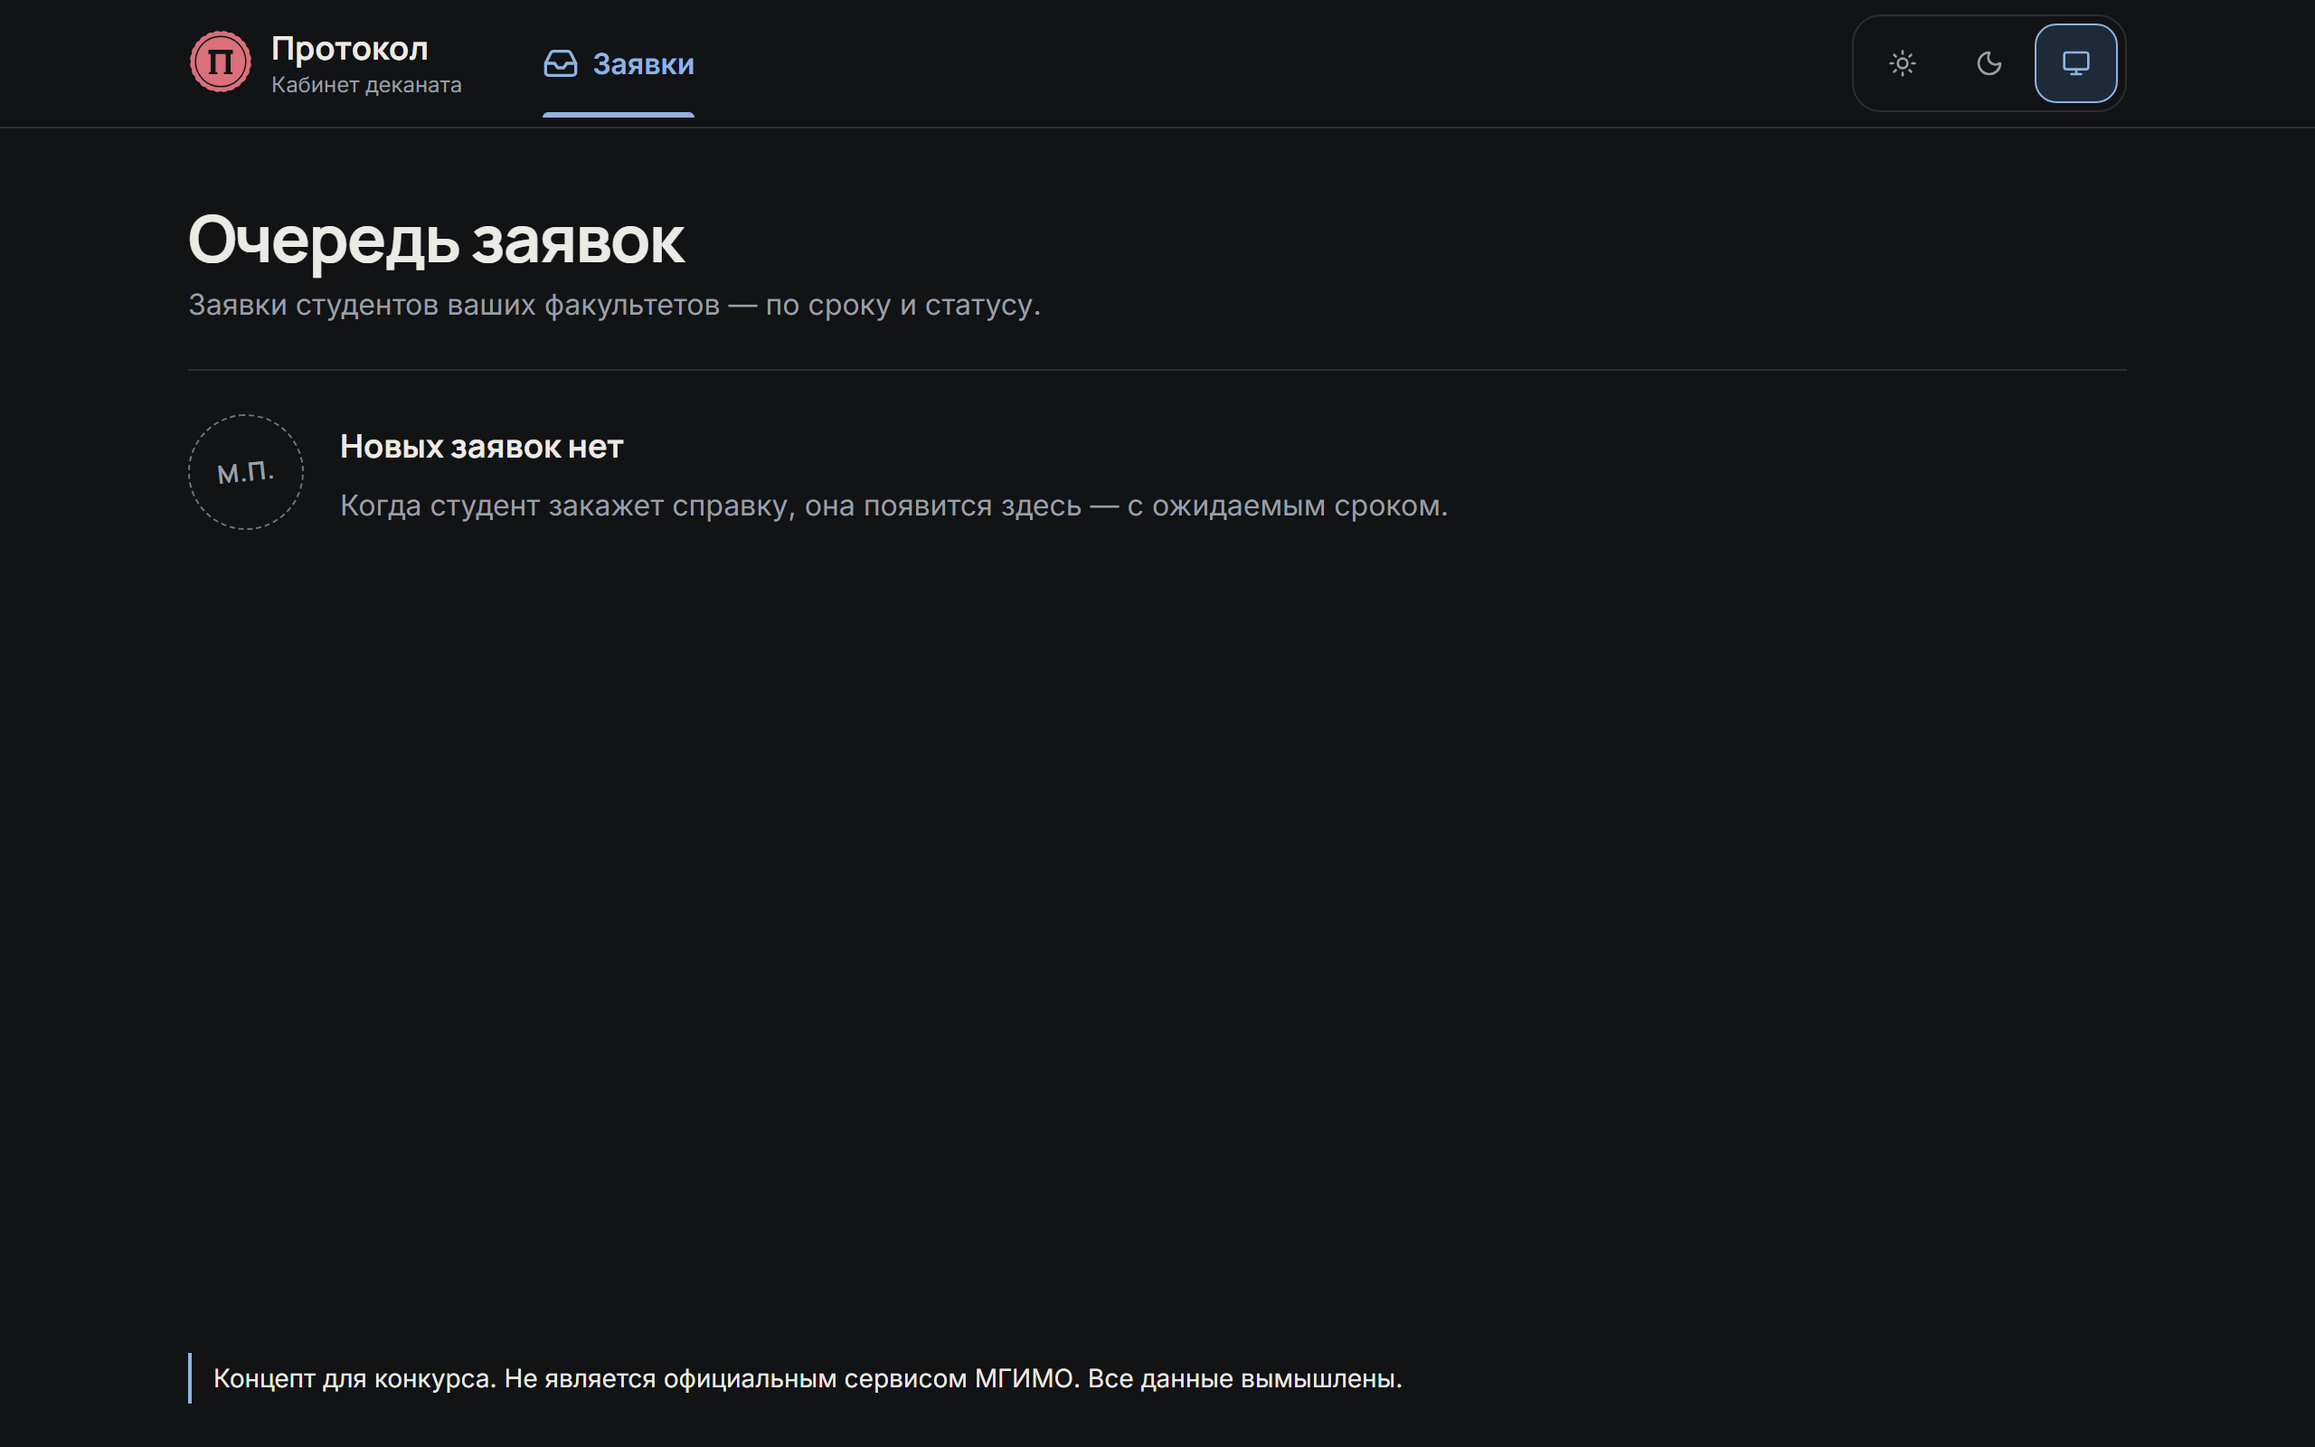
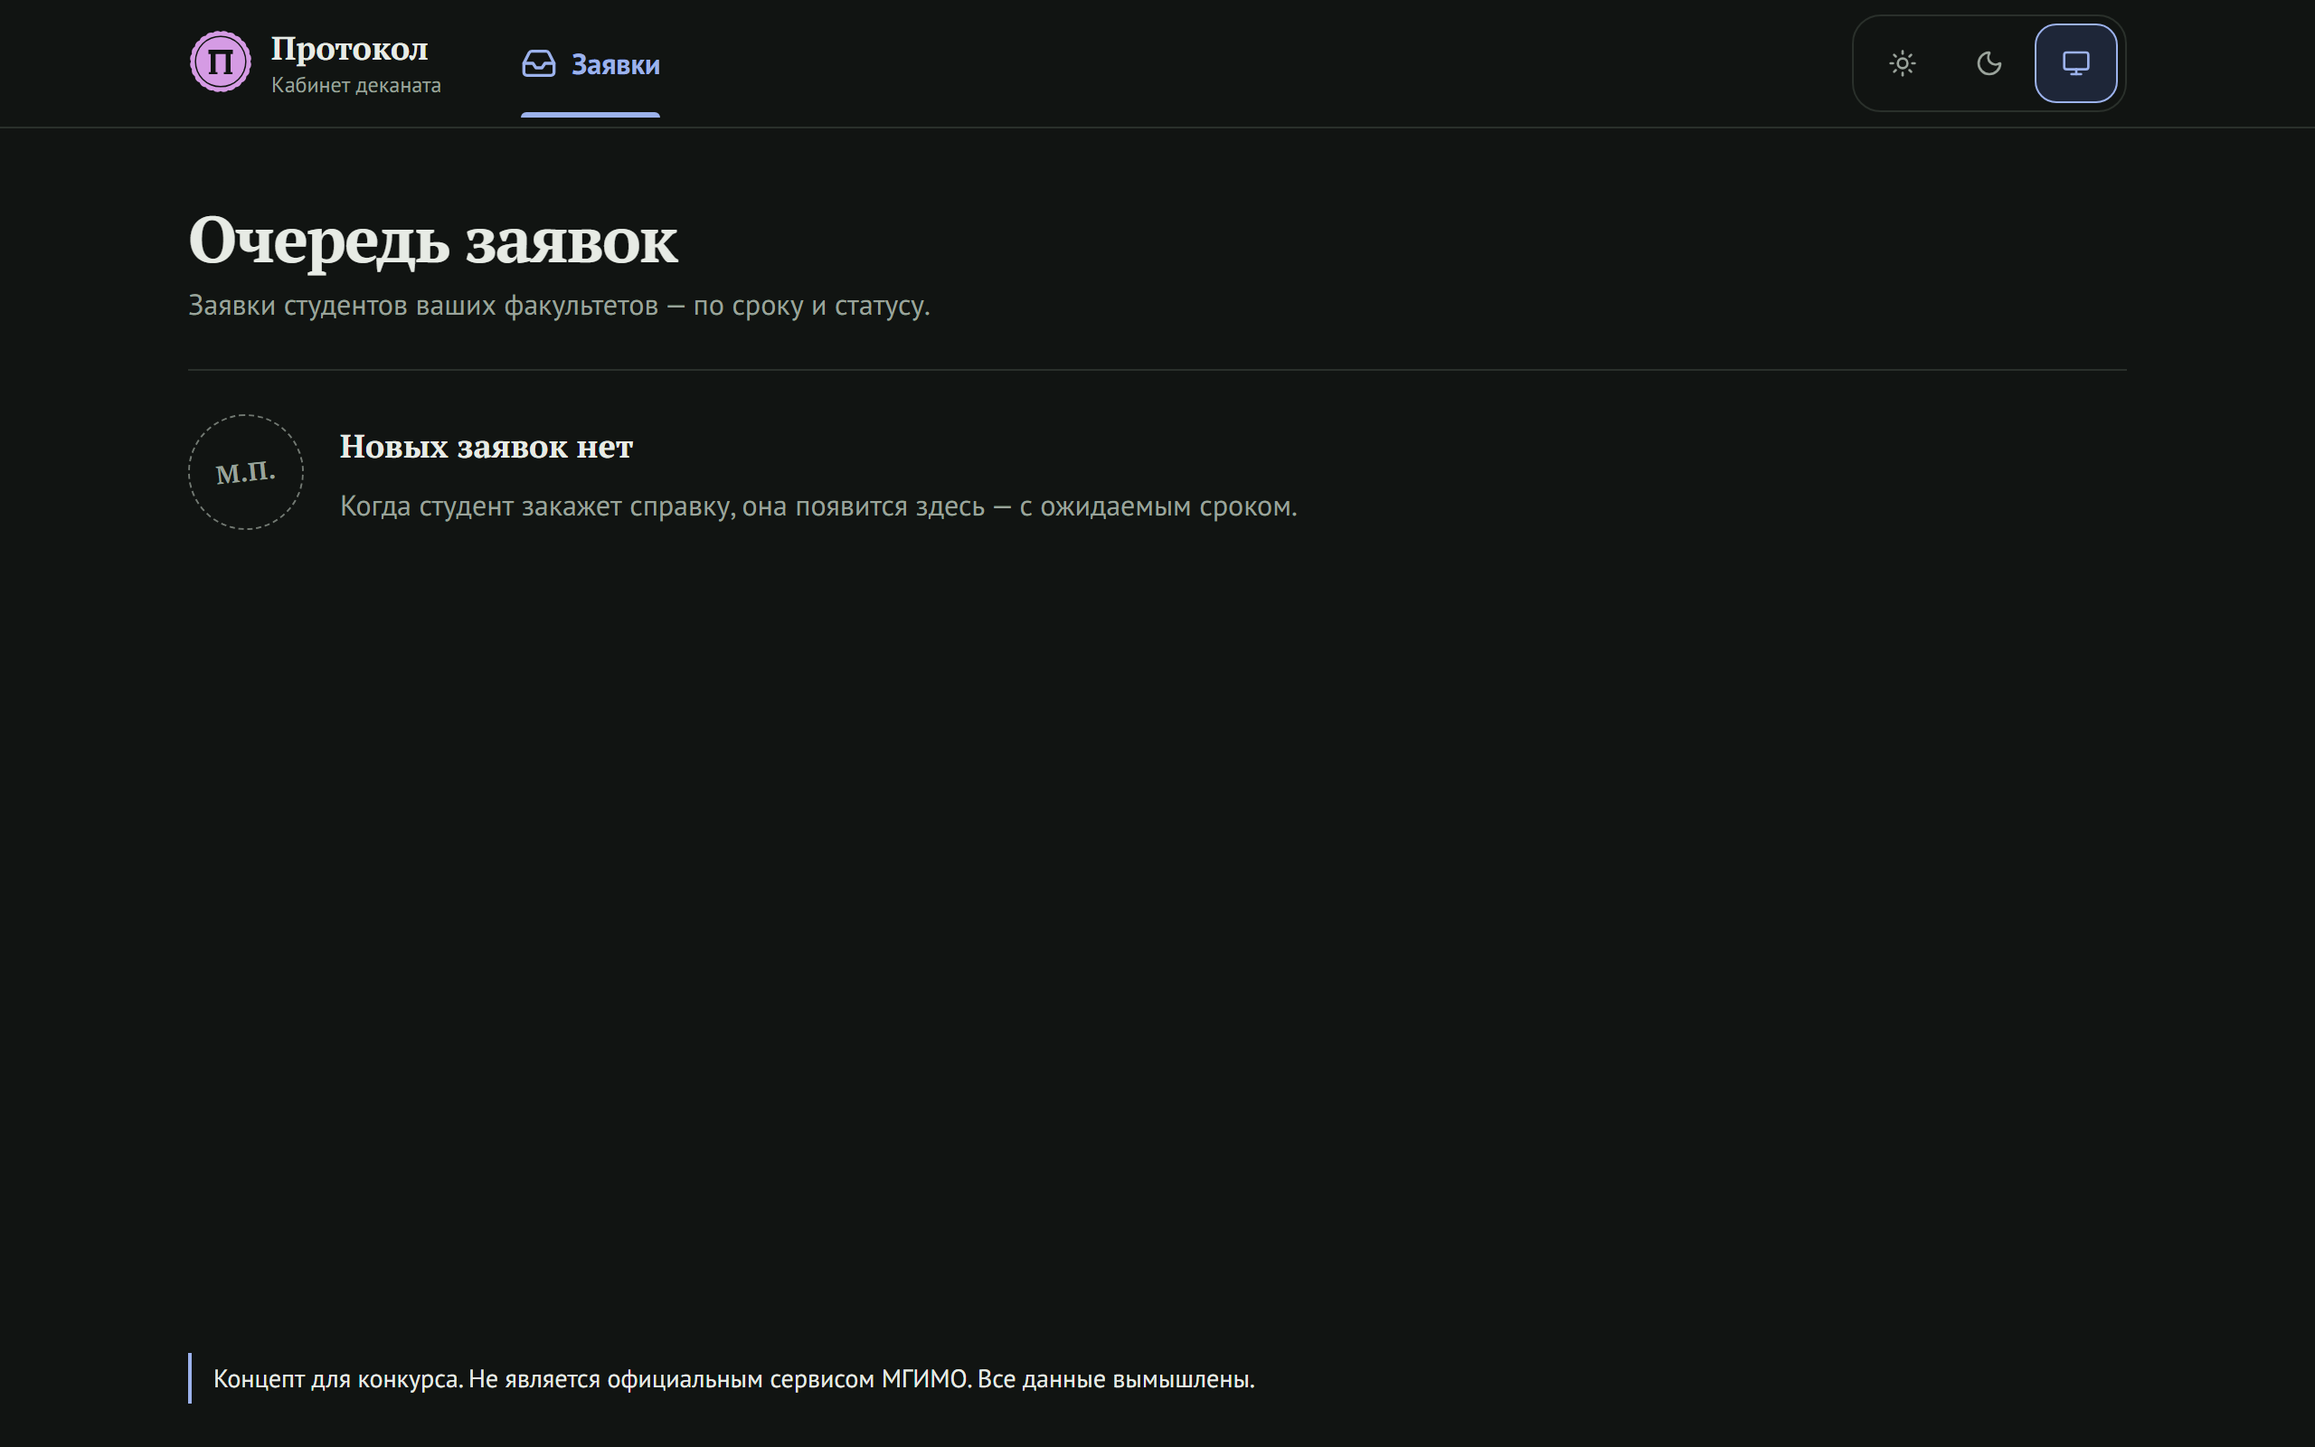
docs: «Бланк» в 04-design (токены, типографика), лицензии PT, шрифты для PDF в T10, скриншоты

diff --git a/docs/04-design.md b/docs/04-design.md
@@ -6,24 +6,26 @@
 
 ## Токены (CSS-переменные в `src/app/globals.css`, Tailwind v4 `@theme`)
 
+Палитра **«Бланк»** (решение человека 06.11, взамен «бумага-крем + винная печать»; прежние значения — в истории git и на `docs/process/screenshots/04-T04-palette-variants.png`). Холодная бумага бланка, чернила, фиолетовая штемпельная печать — как на настоящих справках.
+
 | Токен | Светлая | Тёмная | Назначение |
 |---|---|---|---|
-| `--bg` | `#F7F5F0` (бумага) | `#111315` | фон страницы |
-| `--surface` | `#FFFFFF` | `#1A1D20` | карточки |
-| `--ink` | `#16181D` | `#ECEAE4` | основной текст |
-| `--muted` | `#6B6F76` | `#9A9EA5` | вторичный текст |
-| `--line` | `#E6E2D9` | `#2A2E33` | границы |
-| `--brand` | `#1F3A5F` (чернила) | `#8FB3E0` | акцент, активные элементы |
-| `--brand-soft` | `#E7EDF5` | `#1D2A3A` | фон акцентных плашек |
-| `--ok` | `#2E7D4F` | `#5CC48A` | зачтено, готово |
-| `--warn` | `#965900` | `#F0B14A` | перенос, риск. Светлый затемнён с `#B26A00` (контраст 3.89 → 5.17 на `--bg`; решение человека 05.11 по UX-ревью T01) |
-| `--danger` | `#B3261E` | `#F2867E` | отмена, долг |
-| `--seal` | `#8C2F39` | `#D9707B` | печать: только логотип и статус «Выдана» |
+| `--bg` | `#EEF1EC` (бумага бланка) | `#111412` | фон страницы |
+| `--surface` | `#FBFCFA` | `#1A1E1B` | карточки, поля ввода |
+| `--ink` | `#161A17` | `#E7EBE5` | основной текст |
+| `--muted` | `#5B635C` | `#9AA39B` | вторичный текст (в коде — `--ink-muted`) |
+| `--line` | `#D6DBD2` | `#2A302B` | границы |
+| `--brand` | `#22356B` (чернила) | `#9CB2EC` | акцент, активные элементы |
+| `--brand-soft` | `#E1E7F2` | `#1E2638` | фон акцентных плашек |
+| `--ok` | `#2A7348` | `#5CC48A` | зачтено, готово |
+| `--warn` | `#8A5300` | `#F0B14A` | перенос, риск |
+| `--danger` | `#AE2620` | `#F2867E` | отмена, долг |
+| `--seal` | `#55389A` (штемпельные чернила) | `#D59BE4` | печать: только логотип и статус «Выдана». Фиолетовая, чтобы «Выдана» не путалась с ошибкой: прежняя винная печать почти совпадала с `--danger` |
 
-Контраст текста ≥ 4.5:1 (проверяет `ux-reviewer`). Цвет никогда не единственный носитель смысла — всегда + иконка/текст.
+Контраст текста ≥ 4.5:1 для всех пар, включая текст на `--brand-soft` (проверяют `tests/unit/contrast.test.ts` и `ux-reviewer`). Цвет никогда не единственный носитель смысла — всегда + иконка/текст.
 
 ## Типографика
-- Заголовки: **Manrope** 600–700. Текст: **Inter** 400/500. Цифры (время, баллы): `font-variant-numeric: tabular-nums`.
+- Заголовки: **PT Serif** 700. Текст: **PT Sans** 400/700 (ParaType, OFL, полная кириллица). Цифры в PT Sans одной ширины по умолчанию — время и баллы в столбцах не «прыгают»; класс `tabular` оставляем как явное намерение.
 - Шкала: 12 / 14 / 16 (база) / 18 / 22 / 28 / 36. На 360px главный заголовок ≤ 28.
 
 ## Сетка и отступы
@@ -70,7 +72,7 @@
 
 ## Реализация (T04)
 - **Шкала** — на стандартных именах Tailwind (rem, в `@theme`, остальные размеры отключены): `text-xs` 12, `text-sm` 14, `text-base` 16, `text-lg` 18, `text-xl` 22, `text-2xl` 28, `text-3xl` 36. Свои имена (`text-body` и т. п.) не заводить: `cn` (tailwind-merge) принимает их за цвет и выкидывает вместе с `text-ink` — держит `tests/unit/typography.test.ts`. Заголовок экрана — `PageHeader`: `text-2xl`, на ≥ 1024 — `text-3xl`.
-- **Пары на `--brand-soft`:** текст только `--ink` или `--brand`. `--ink-muted` (4.29) и светлый `--ok` (4.28) на нём запрещены — это проверяет `tests/unit/contrast.test.ts` вместе со всеми остальными парами в обеих темах.
+- **Пары на `--brand-soft`:** в палитре «Бланк» все цвета текста на нём ≥ 4.5:1 (прежний запрет на `--ink-muted` и `--ok` снят); `tests/unit/contrast.test.ts` проверяет все пары в обеих темах и что `--seal` далеко от `--danger`.
 - **Тема:** cookie `theme`, класс `.light`/`.dark` на `<html>` ставит сервер; переключатель «Светлая / Тёмная / Системная» — в сайдбаре и на «Ещё».
 - **Компоненты** (`src/components/`): `PageHeader`, `StatusChip` (тон + иконка + текст), `EmptyState`, `ErrorState`, skeleton-набор (`skeletons.tsx`), `ConceptBanner` в `SiteFooter`, `LogoSeal`, `BrandMark`, `ThemeSwitcher`, навигация в `nav/`. Витрина — `/dev/ui` (только `pnpm dev`).
 - **Кнопки** (`ui/button.tsx`): по умолчанию 44px, `lg` 48px; `sm`/`icon-sm` (36px) — только для плотных десктопных таблиц.

diff --git a/docs/03-architecture.md b/docs/03-architecture.md
@@ -12,7 +12,7 @@
 | Вход | **Свои сессии** в БД + cookie httpOnly | Прозрачно объяснить жюри «простыми словами»; без сторонних сервисов |
 | Хеш паролей | argon2id (`@node-rs/argon2`) | Рекомендация OWASP |
 | ИИ-помощник | GigaChat API за серверным прокси, провайдер-абстракция | Доступен из РФ; ключ только на сервере; без ключа — режим «FAQ без ИИ» |
-| PDF справок | `@react-pdf/renderer` | Генерация на сервере. Кириллица — только через зарегистрированный TTF (`Font.register`, Inter), иначе текст не отрисуется |
+| PDF справок | `@react-pdf/renderer` | Генерация на сервере. Кириллица — только через зарегистрированный TTF (`Font.register`, PT Sans / PT Serif — те же шрифты, что в интерфейсе), иначе текст не отрисуется |
 | Тема | cookie `theme` (`light`/`dark`, нет cookie — системная) → класс на `<html>` и `theme-color` ставит сервер | Нет мигания при загрузке и нет inline-скрипта в `<head>`, который запретила бы CSP (S6). Цена — корневой layout динамический; страницы студента и так динамические из-за сессии. Решение T04, 06.11 |
 | Тесты | Vitest + Playwright | e2e на десктопе и 360px; тесты изоляции данных |
 | Деплой | Docker Compose: app + postgres + caddy (HTTPS) на российском VPS | Открывается из РФ без VPN; одна команда |
@@ -223,7 +223,7 @@ Server Action → zod.parse → requireRole → service → repo(ctx) → revali
 | @playwright/test (dev) | Apache-2.0 |
 | Docker-образы: `node` (MIT), `postgres` (PostgreSQL License), `caddy` (Apache-2.0) | свободные |
 | GitHub Actions: `actions/*`, `pnpm/action-setup` (MIT), `docker/*` (Apache-2.0), `gitleaks-action` (бесплатно для личного репо) | см. `docs/07-tooling.md` |
-| Шрифты Manrope, Inter (Google Fonts, self-host через next/font) | OFL |
+| Шрифты PT Sans, PT Serif (ParaType, Google Fonts, self-host через next/font) | OFL |
 | @node-rs/argon2 | MIT |
 | @axe-core/playwright (dev) | MPL-2.0 |
 | Скиллы vercel-labs (react-best-practices, web-interface-guidelines) | MIT |

diff --git a/docs/tasks/T10-wizard-pdf-qr.md b/docs/tasks/T10-wizard-pdf-qr.md
@@ -5,7 +5,7 @@
 ## Сделать
 - `PurposePicker` первым шагом `/requests/new`: цель → подходящие типы (по `purposeTags`) → язык → форма. Ссылка «Я знаю, какая справка нужна» → полный каталог.
 - При статусе READY генерируется PDF (`@react-pdf/renderer`): вымышленная шапка «Протокол · концепт», данные, QR на `/verify/<token>`, водяной знак «ОБРАЗЕЦ · КОНЦЕПТ ДЛЯ КОНКУРСА».
-- Кириллица: зарегистрировать TTF (Inter, OFL) через `Font.register`; встроенные шрифты react-pdf кириллицу не рисуют. Юнит-тест: в тексте PDF есть «Справка».
+- Кириллица: зарегистрировать TTF (PT Sans и PT Serif, OFL — те же, что в интерфейсе, палитра «Бланк») через `Font.register`; встроенные шрифты react-pdf кириллицу не рисуют. Юнит-тест: в тексте PDF есть «Справка».
 - Скачивание PDF — только владелец (проверка владения на сервере).
 - `/verify/[token]`: «Действительна / Отозвана / Не найдена», тип, дата, инициалы. Сотрудник может отозвать.
 
